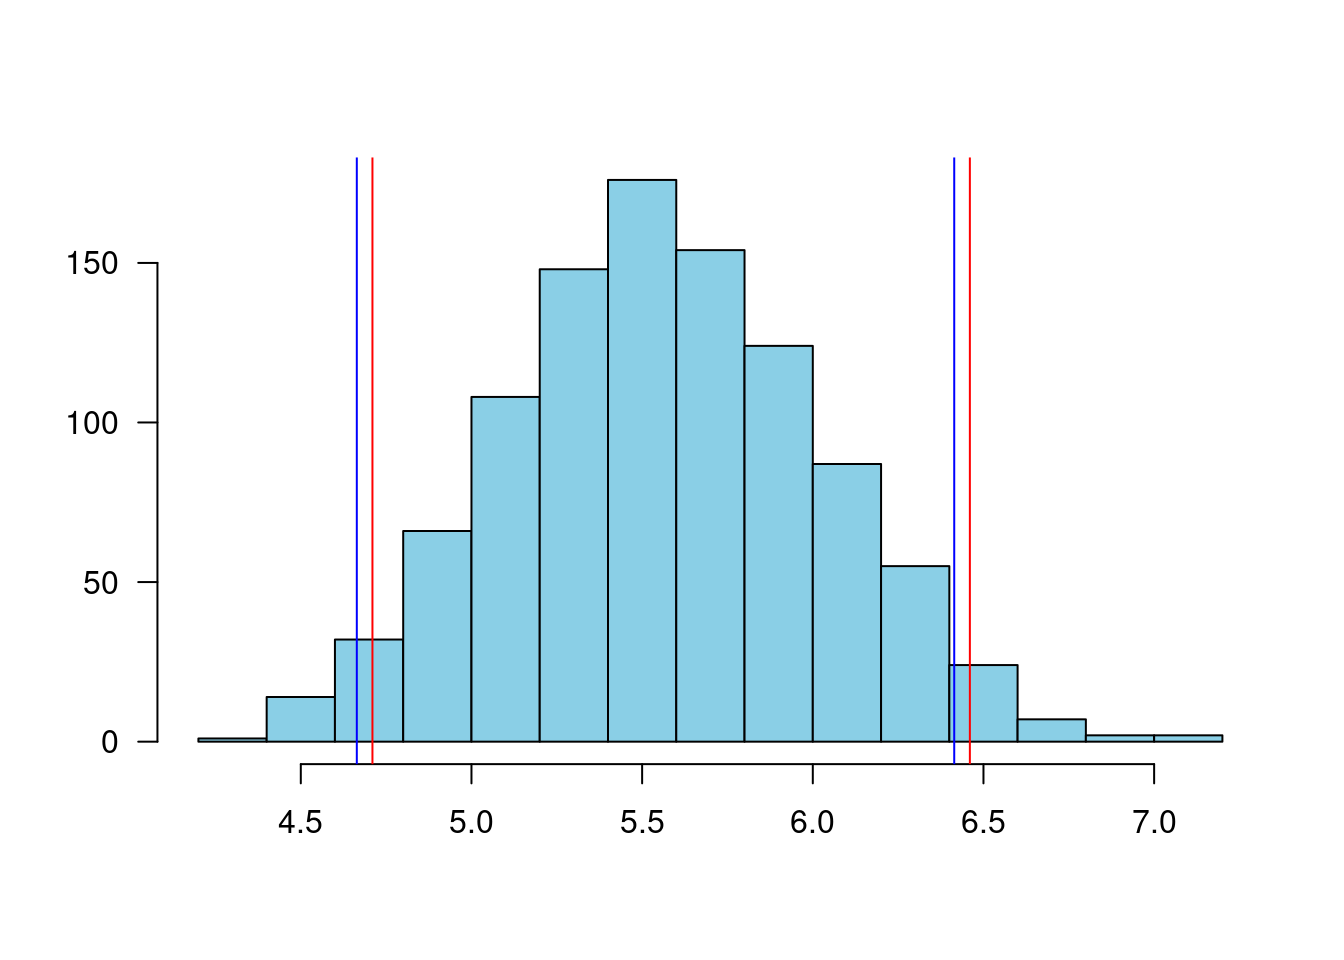
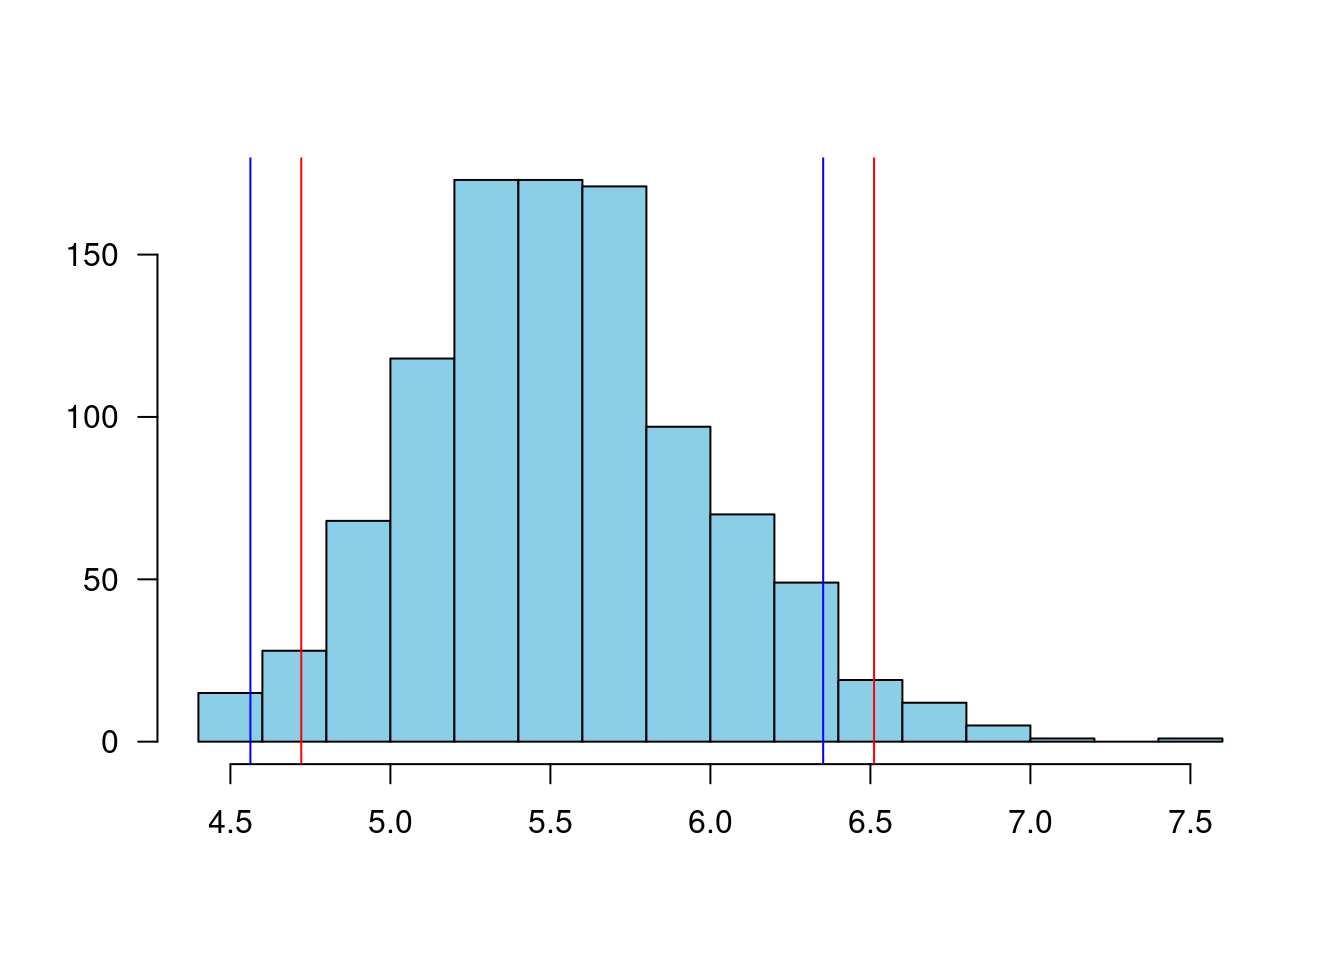
add pdf

diff --git a/docs/recurso402.html b/docs/recurso402.html
@@ -629,8 +629,8 @@ Unidad 4.2</strong></span></h3>
 
 
 <p><img src="img/banner4.png" /></p>
-<div id="estimación-por-ic" class="section level2">
-<h2><strong>Estimación por IC</strong></h2>
+<div id="estimación-por-ic" class="section level1">
+<h1><strong>Estimación por IC</strong></h1>
 <p><img src="img/gic.png" width="40%" style="display: block; margin: auto;" /></p>
 <p>Un estimador por intervalo de confianza (IC) es una regla que
 especifica como usar las mediciones obtenidas en una muestra para
@@ -646,13 +646,13 @@ class="math inline">\(\chi^{2}\)</span> o <span
 class="math inline">\(F-Fisher\)</span></p>
 <p><br/><br/><br/><br/></p>
 </div>
-<div id="una-población" class="section level2">
-<h2><strong>Una población</strong></h2>
+<div id="una-población" class="section level1">
+<h1><strong>Una población</strong></h1>
 <p><br/><br/><br/></p>
 <div id="intervalos-de-confianza-para-la-media-con-varianza-conocida"
-class="section level3">
-<h3><strong>Intervalos de confianza para la media, con varianza
-conocida</strong></h3>
+class="section level2">
+<h2><strong>Intervalos de confianza para la media, con varianza
+conocida</strong></h2>
 <p>Partimos de dos valores que contiene el parámetro <span
 class="math inline">\(\theta\)</span></p>
 <p><span class="math display">\[L_{I} \leq \theta \leq L_{S}
@@ -692,9 +692,9 @@ style="padding: 15px; border: 1px solid transparent; border-color: transparent; 
 <p><br/><br/><br/></p>
 </div>
 <div id="intervalo-de-confianza-para-la-media-con-varianza-desconocida"
-class="section level3">
-<h3><strong>Intervalo de confianza para la media, con varianza
-desconocida</strong></h3>
+class="section level2">
+<h2><strong>Intervalo de confianza para la media, con varianza
+desconocida</strong></h2>
 <p><span class="math display">\[T=\dfrac{\bar{X}-\mu}{s/
 \sqrt{n}}\]</span></p>
 <p>se distribuye t student con <span class="math inline">\(n-1\)</span>
@@ -782,8 +782,8 @@ empresa está entre 35.7 dias y 42.5 dias con una confianza del 95%</p>
 <p><br/><br/><br/></p>
 </div>
 <div id="tamaño-de-la-muestra-para-estimar-una-media"
-class="section level3">
-<h3><strong>Tamaño de la muestra para estimar una media</strong></h3>
+class="section level2">
+<h2><strong>Tamaño de la muestra para estimar una media</strong></h2>
 <p>Uno de los problemas más frecuentes a los que nos enfrentamos es la
 determinación del tamaño de la muestra para realizar una estimación de
 la media que garantice una confianza del <span
@@ -851,8 +851,8 @@ round(n,0)  # redondeo a entero</code></pre>
 <p><br/><br/><br/></p>
 </div>
 <div id="intervalos-de-confianza-para-la-proporción"
-class="section level3">
-<h3><strong>Intervalos de confianza para la proporción</strong></h3>
+class="section level2">
+<h2><strong>Intervalos de confianza para la proporción</strong></h2>
 <p>La construcción del intervalo de confianza para una proporción es
 similar al proceso realizado en la construcción de la media, bajo el
 supuesto de <span class="math inline">\(np&gt;10\)</span> que permite la
@@ -904,9 +904,9 @@ una suscripción a HBO</p>
 <p><br/><br/><br/></p>
 </div>
 <div id="tamaño-de-muestra-para-la-estimación-de-una-proporción"
-class="section level3">
-<h3><strong>Tamaño de muestra para la estimación de una
-proporción</strong></h3>
+class="section level2">
+<h2><strong>Tamaño de muestra para la estimación de una
+proporción</strong></h2>
 <p><span class="math display">\[n=\dfrac{z_{\alpha/2}^{2}\hspace{.3cm}
 p(1-p)}{e^{2}}\]</span> Donde :</p>
 <ul>
@@ -970,8 +970,8 @@ encuesta que presentan un sobre costo de $21.6 millones</p>
 <p><br/><br/><br/></p>
 </div>
 <div id="intervalos-de-confianza-para-la-varianza"
-class="section level3">
-<h3><strong>Intervalos de confianza para la varianza</strong></h3>
+class="section level2">
+<h2><strong>Intervalos de confianza para la varianza</strong></h2>
 <p>En el caso del intervalo de confianza para la varianza se parte de la
 premisa de que la variable</p>
 <p><span class="math display">\[\frac{(n-1)S^{2}}{\sigma^{2}} \sim
@@ -1032,15 +1032,14 @@ precio de las acciones de Ecopetrol está entre $ 75.7 y $ 140.0</p>
 <p><br/><br/></p>
 <div
 id="estimación-de-intervalos-de-confianza-para-comparación-de-dos-poblaciones"
-class="section level3">
-<h3><strong>Estimación de intervalos de confianza para comparación de
-dos poblaciones</strong></h3>
+class="section level2">
+<h2><strong>Estimación de intervalos de confianza para comparación de
+dos poblaciones</strong></h2>
 <p>Cuando se compraran dos poblaciones se puede estar interesado en la
 diferencia de medias, diferencia de proporciones o la razón de
 varianzas. Es necesario distinguir cuando se trata de diferencia de
 medias pareadas o diferencia para poblaciones independientes.</p>
 <p><br/><br/><br/></p>
-</div>
 <div id="diferencia-de-medias---pareadas" class="section level3">
 <h3><strong>Diferencia de medias - pareadas</strong></h3>
 <p>Se consideran muestras pareadas cuando existen una fuerte dependencia
@@ -1110,10 +1109,11 @@ retomaremos en la unidad 4.3 donde se realiza una prueba de
 hipótesis.</p>
 <p><br/><br/><br/></p>
 </div>
+</div>
 <div id="diferencia-de-medias-poblaciones-independientes"
-class="section level3">
-<h3><strong>Diferencia de medias poblaciones
-independientes</strong></h3>
+class="section level2">
+<h2><strong>Diferencia de medias poblaciones
+independientes</strong></h2>
 <p><br/><br/></p>
 <div
 style="padding: 15px; border: 1px solid transparent; border-color: transparent; margin-bottom: 20px; border-radius: 4px; color: #000000; background-color: #f9f9ec  ; border-color: #000000;">
@@ -1307,8 +1307,8 @@ que <span class="math inline">\(\mu_{1}&gt;\mu_{2}\)</span></td>
 </div>
 <p><br/><br/><br/></p>
 </div>
-<div id="diferencia-de-proporciones" class="section level3">
-<h3><strong>Diferencia de proporciones</strong></h3>
+<div id="diferencia-de-proporciones" class="section level2">
+<h2><strong>Diferencia de proporciones</strong></h2>
 <p><br/><br/></p>
 <div
 style="padding: 15px; border: 1px solid transparent; border-color: transparent; margin-bottom: 20px; border-radius: 4px; color: #000000; background-color: #f9f9ec ; border-color: #000000;">
@@ -1419,8 +1419,8 @@ que <span class="math inline">\(p_{1}&gt;p_{2}\)</span></td>
 </div>
 <p><br/><br/><br/></p>
 </div>
-<div id="comparación-de-varianzas" class="section level3">
-<h3><strong>Comparación de varianzas</strong></h3>
+<div id="comparación-de-varianzas" class="section level2">
+<h2><strong>Comparación de varianzas</strong></h2>
 <p><br/><br/></p>
 <p>La comparación de varianzas se realiza con relación al valor que tome
 la razón de sus valores <span
@@ -1441,8 +1441,9 @@ style="padding: 15px; border: 1px solid transparent; border-color: transparent; 
 </div>
 <p><br/><br/><br/></p>
 </div>
-<div id="intervalos-no-paramétricos" class="section level2">
-<h2><strong>Intervalos no paramétricos</strong></h2>
+</div>
+<div id="intervalos-no-paramétricos" class="section level1">
+<h1><strong>Intervalos no paramétricos</strong></h1>
 <p>Cuando se extrae una muestra de una población que no es normal y se
 requiere estimar un intervalo de confianza se pueden utilizar los
 métodos de estimación <strong>bootstrap</strong>. Existen varias
@@ -1502,12 +1503,12 @@ mx=apply(b,1,mean)                 # se calculan m medias por fila</code></pre>
 <pre class="r"><code>ic1=quantile(mx, probs=c(0.025, 0.975)) # se calcula IC método 1
 ic1</code></pre>
 <pre><code>    2.5%    97.5% 
-4.709893 6.460143 </code></pre>
+4.721429 6.511429 </code></pre>
 <p><br/><br/></p>
 <pre class="r"><code>ic2=c(2*mean(mx)-ic1[2], 2*mean(mx)-ic1[1]) # se calcula IC método 2
 ic2</code></pre>
 <pre><code>   97.5%     2.5% 
-4.664083 6.414333 </code></pre>
+4.562466 6.352466 </code></pre>
 <p><br/><br/></p>
 <pre class="r"><code>hist(mx, las=1, main=&quot; &quot;, ylab = &quot; &quot;, xlab = &quot; &quot;, col=c3)
 abline(v=ic1, col=&quot;red&quot;)
@@ -1515,7 +1516,6 @@ abline(v=ic2, col=&quot;blue&quot;)</code></pre>
 <p><img src="recurso402_files/figure-html/unnamed-chunk-13-1.png" width="672" /></p>
 <p>Como se puede observar, el segundo estimador corrige el intervalo</p>
 <p><br/><br/><br/><br/></p>
-</div>
 <div id="conceptos" class="section level2">
 <h2><strong>Conceptos</strong></h2>
 <p><br/><br/></p>
@@ -1538,8 +1538,9 @@ class="math inline">\(1-\alpha =0.95\)</span>) y se de nota por : <span
 class="math inline">\(IC_{\mu; 1-\alpha=0.95}\)</span></p>
 <p><br/><br/><br/></p>
 </div>
-<div id="grados-de-libertad" class="section level3">
-<h3><strong>Grados de libertad</strong></h3>
+</div>
+<div id="grados-de-libertad" class="section level2">
+<h2><strong>Grados de libertad</strong></h2>
 <p>Una definicion de grados de libertad encontrada: <a
 href="https://psicologiaexperimental.files.wordpress.com/2010/04/grados-de-libertad.pdf">¿Qué
 son los llamados “grados de libertad”?</a> escrito por : Roberto Behar y
@@ -1575,7 +1576,6 @@ el valor de la media en este caso. Es decir que tendríamos libertad de
 asignar 4 de los valores de la muestra, dado que el último estaría
 determinado por el valor de la media.</p>
 <p><br/><br/><br/><br/></p>
-</div>
 </div>
 <div id="formulario" class="section level2">
 <h2><strong>Formulario</strong></h2>
@@ -1716,8 +1716,9 @@ class="math inline">\(X_{2}\sim norm(\mu_{2},
 </table>
 <p><br/><br/><br/></p>
 </div>
-<div id="tamaño-de-muestra" class="section level2">
-<h2><strong>Tamaño de muestra</strong></h2>
+</div>
+<div id="tamaño-de-muestra" class="section level1">
+<h1><strong>Tamaño de muestra</strong></h1>
 <p><br/><br/></p>
 <div id="mu" class="section level3">
 <h3><span class="math inline">\(\mu\)</span></h3>
@@ -1848,14 +1849,14 @@ align="left"><code>paqueteDEG::adjusted_size(385,2000) # adjusted_size(n,N)</cod
 <p><br/><br/><br/><br/></p>
 </div>
 </div>
-<div id="video" class="section level2">
-<h2><strong>Video</strong></h2>
+<div id="video" class="section level1">
+<h1><strong>Video</strong></h1>
 <iframe width="560" height="315" src="https://www.youtube.com/embed/5y7MJiPXIjw" title="YouTube video player" frameborder="0" allow="accelerometer; autoplay; clipboard-write; encrypted-media; gyroscope; picture-in-picture" allowfullscreen>
 </iframe>
 <p><br/><br/><br/><br/></p>
 </div>
-<div id="tutoriales" class="section level2">
-<h2><strong>Tutoriales</strong></h2>
+<div id="tutoriales" class="section level1">
+<h1><strong>Tutoriales</strong></h1>
 <p><br/><br/></p>
 <p>El siguiente código permite la activación de tutoriales :</p>
 <ul>
@@ -1877,7 +1878,6 @@ install_github(&quot;dgonxalex80/paqueteDEG&quot;, force = TRUE) # solo una vez
 
 learnr::run_tutorial(&quot;Taller-Intervalos2&quot;, &quot;paqueteDEG&quot;)</code></pre>
 <p><br/><br/></p>
-</div>
 </div>
 <div id="presentación" class="section level1">
 <h1><strong>Presentación</strong></h1>
